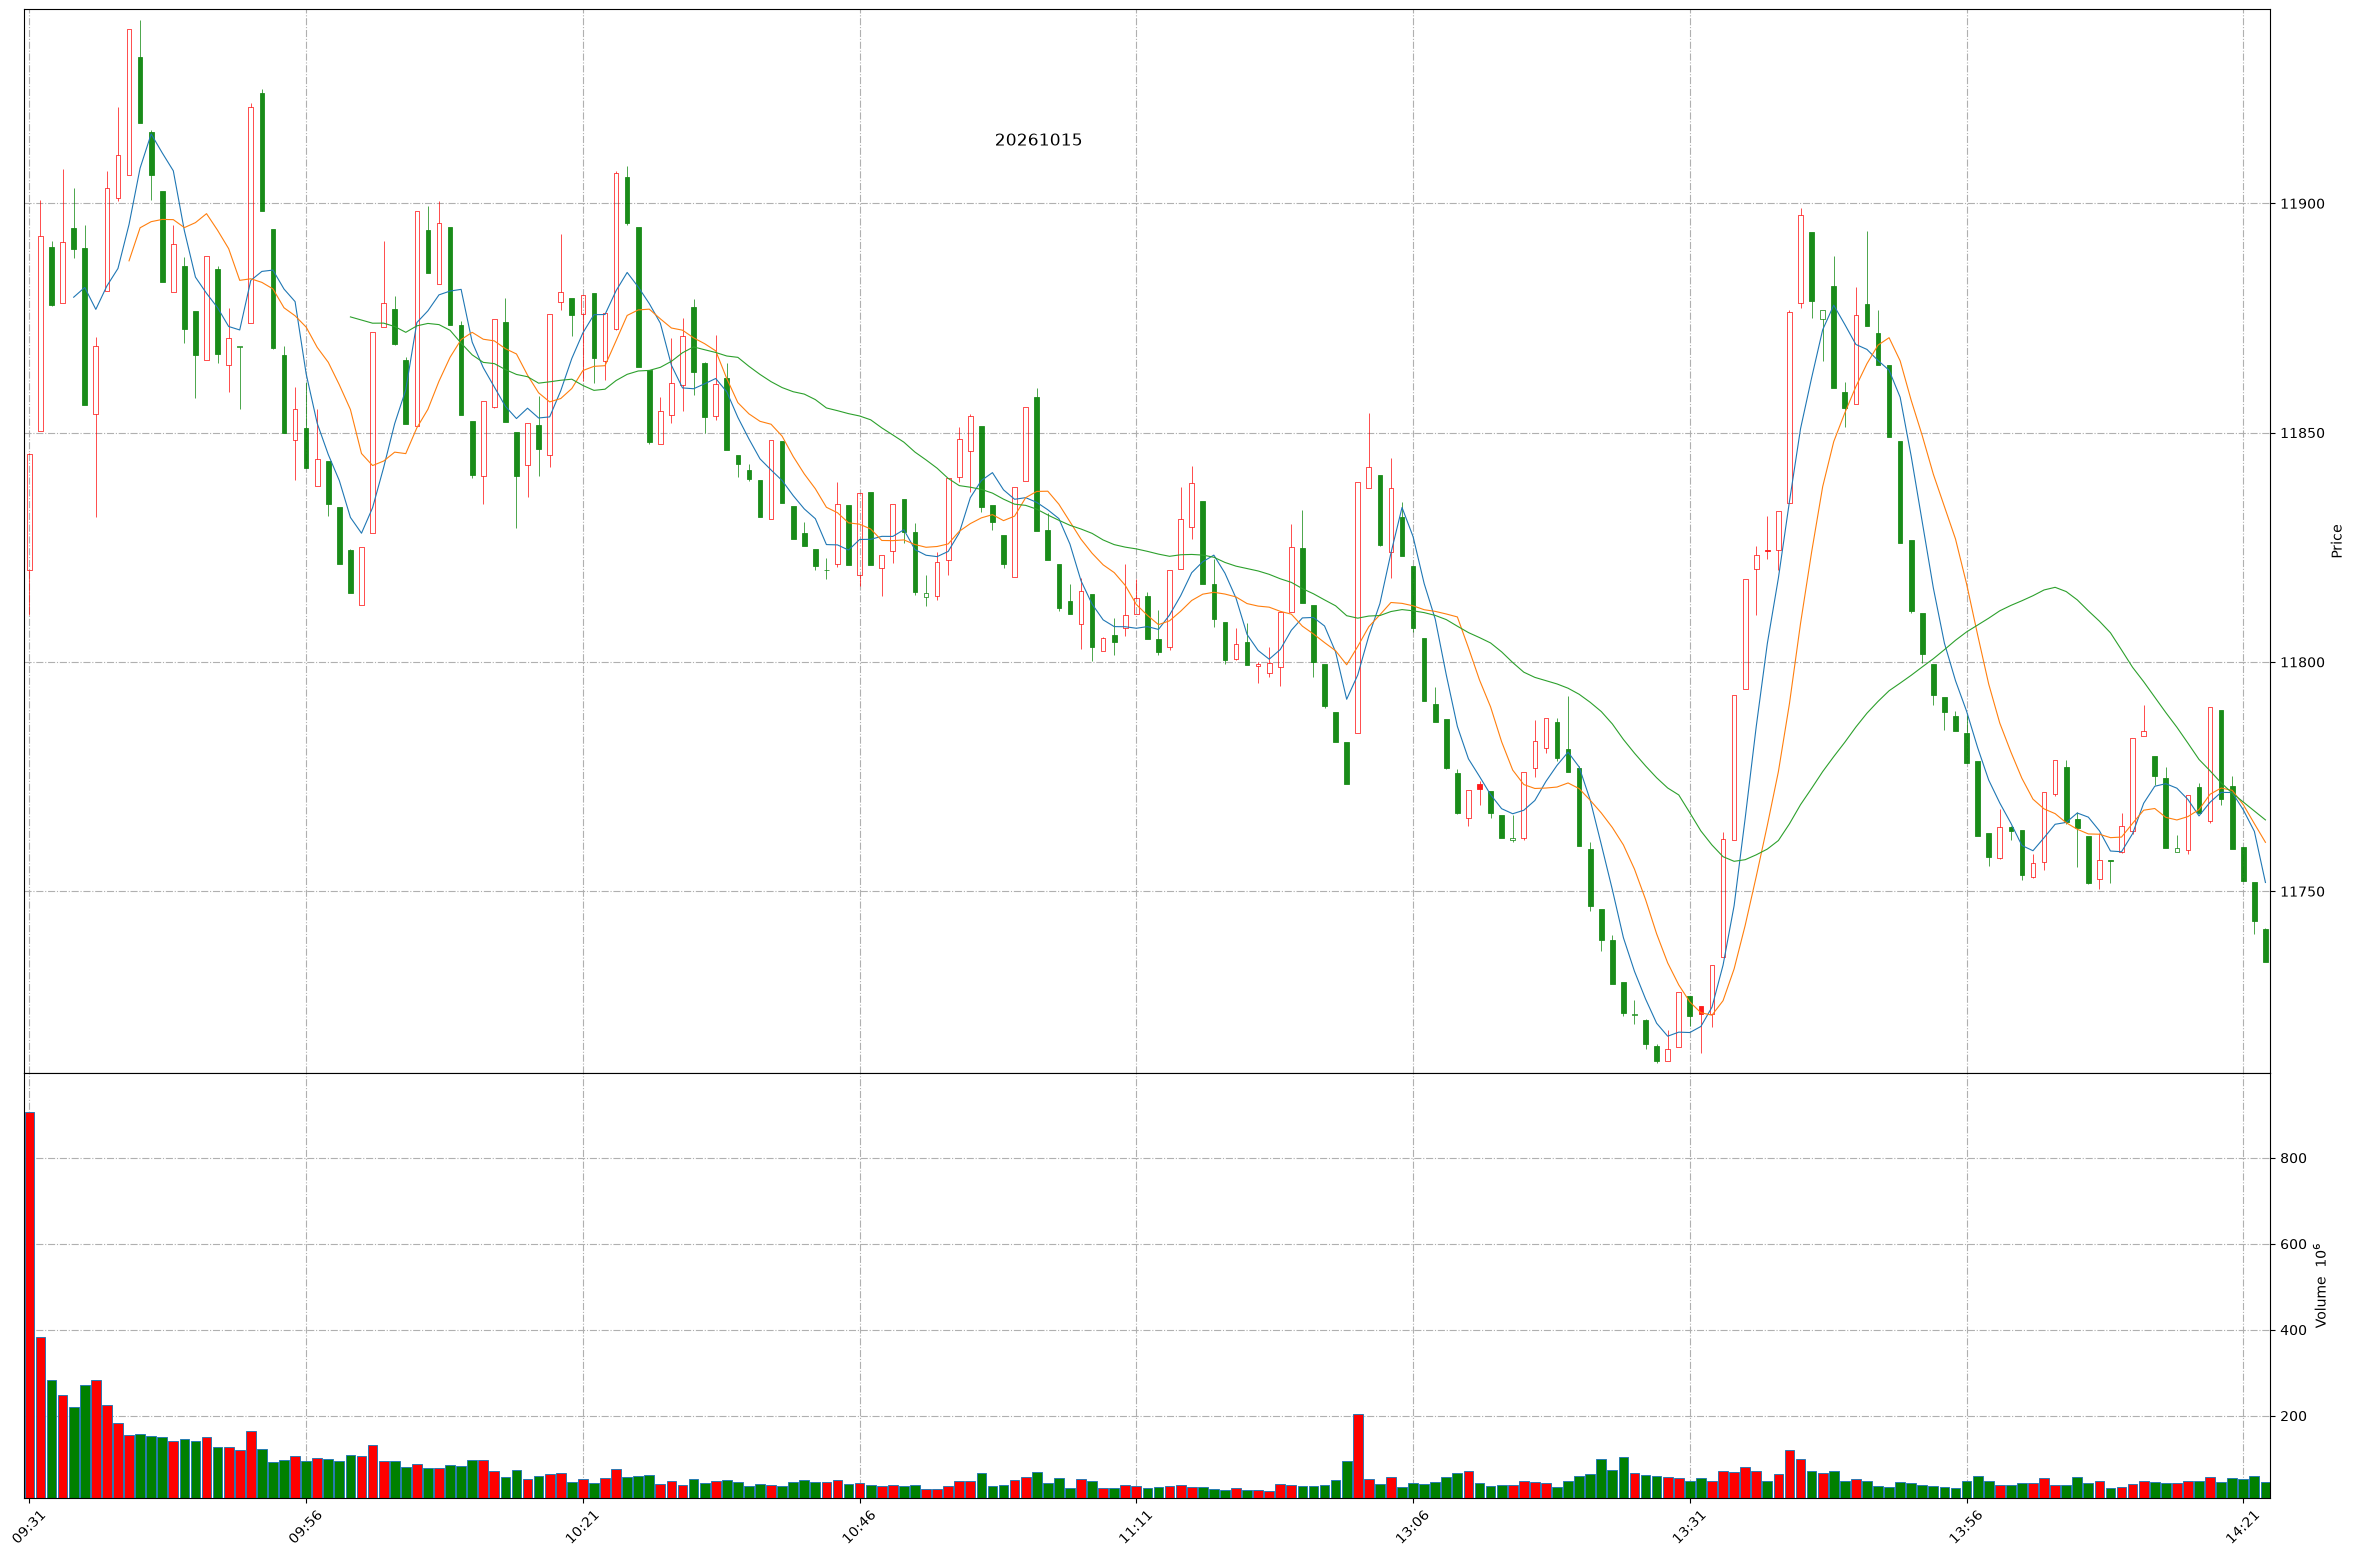
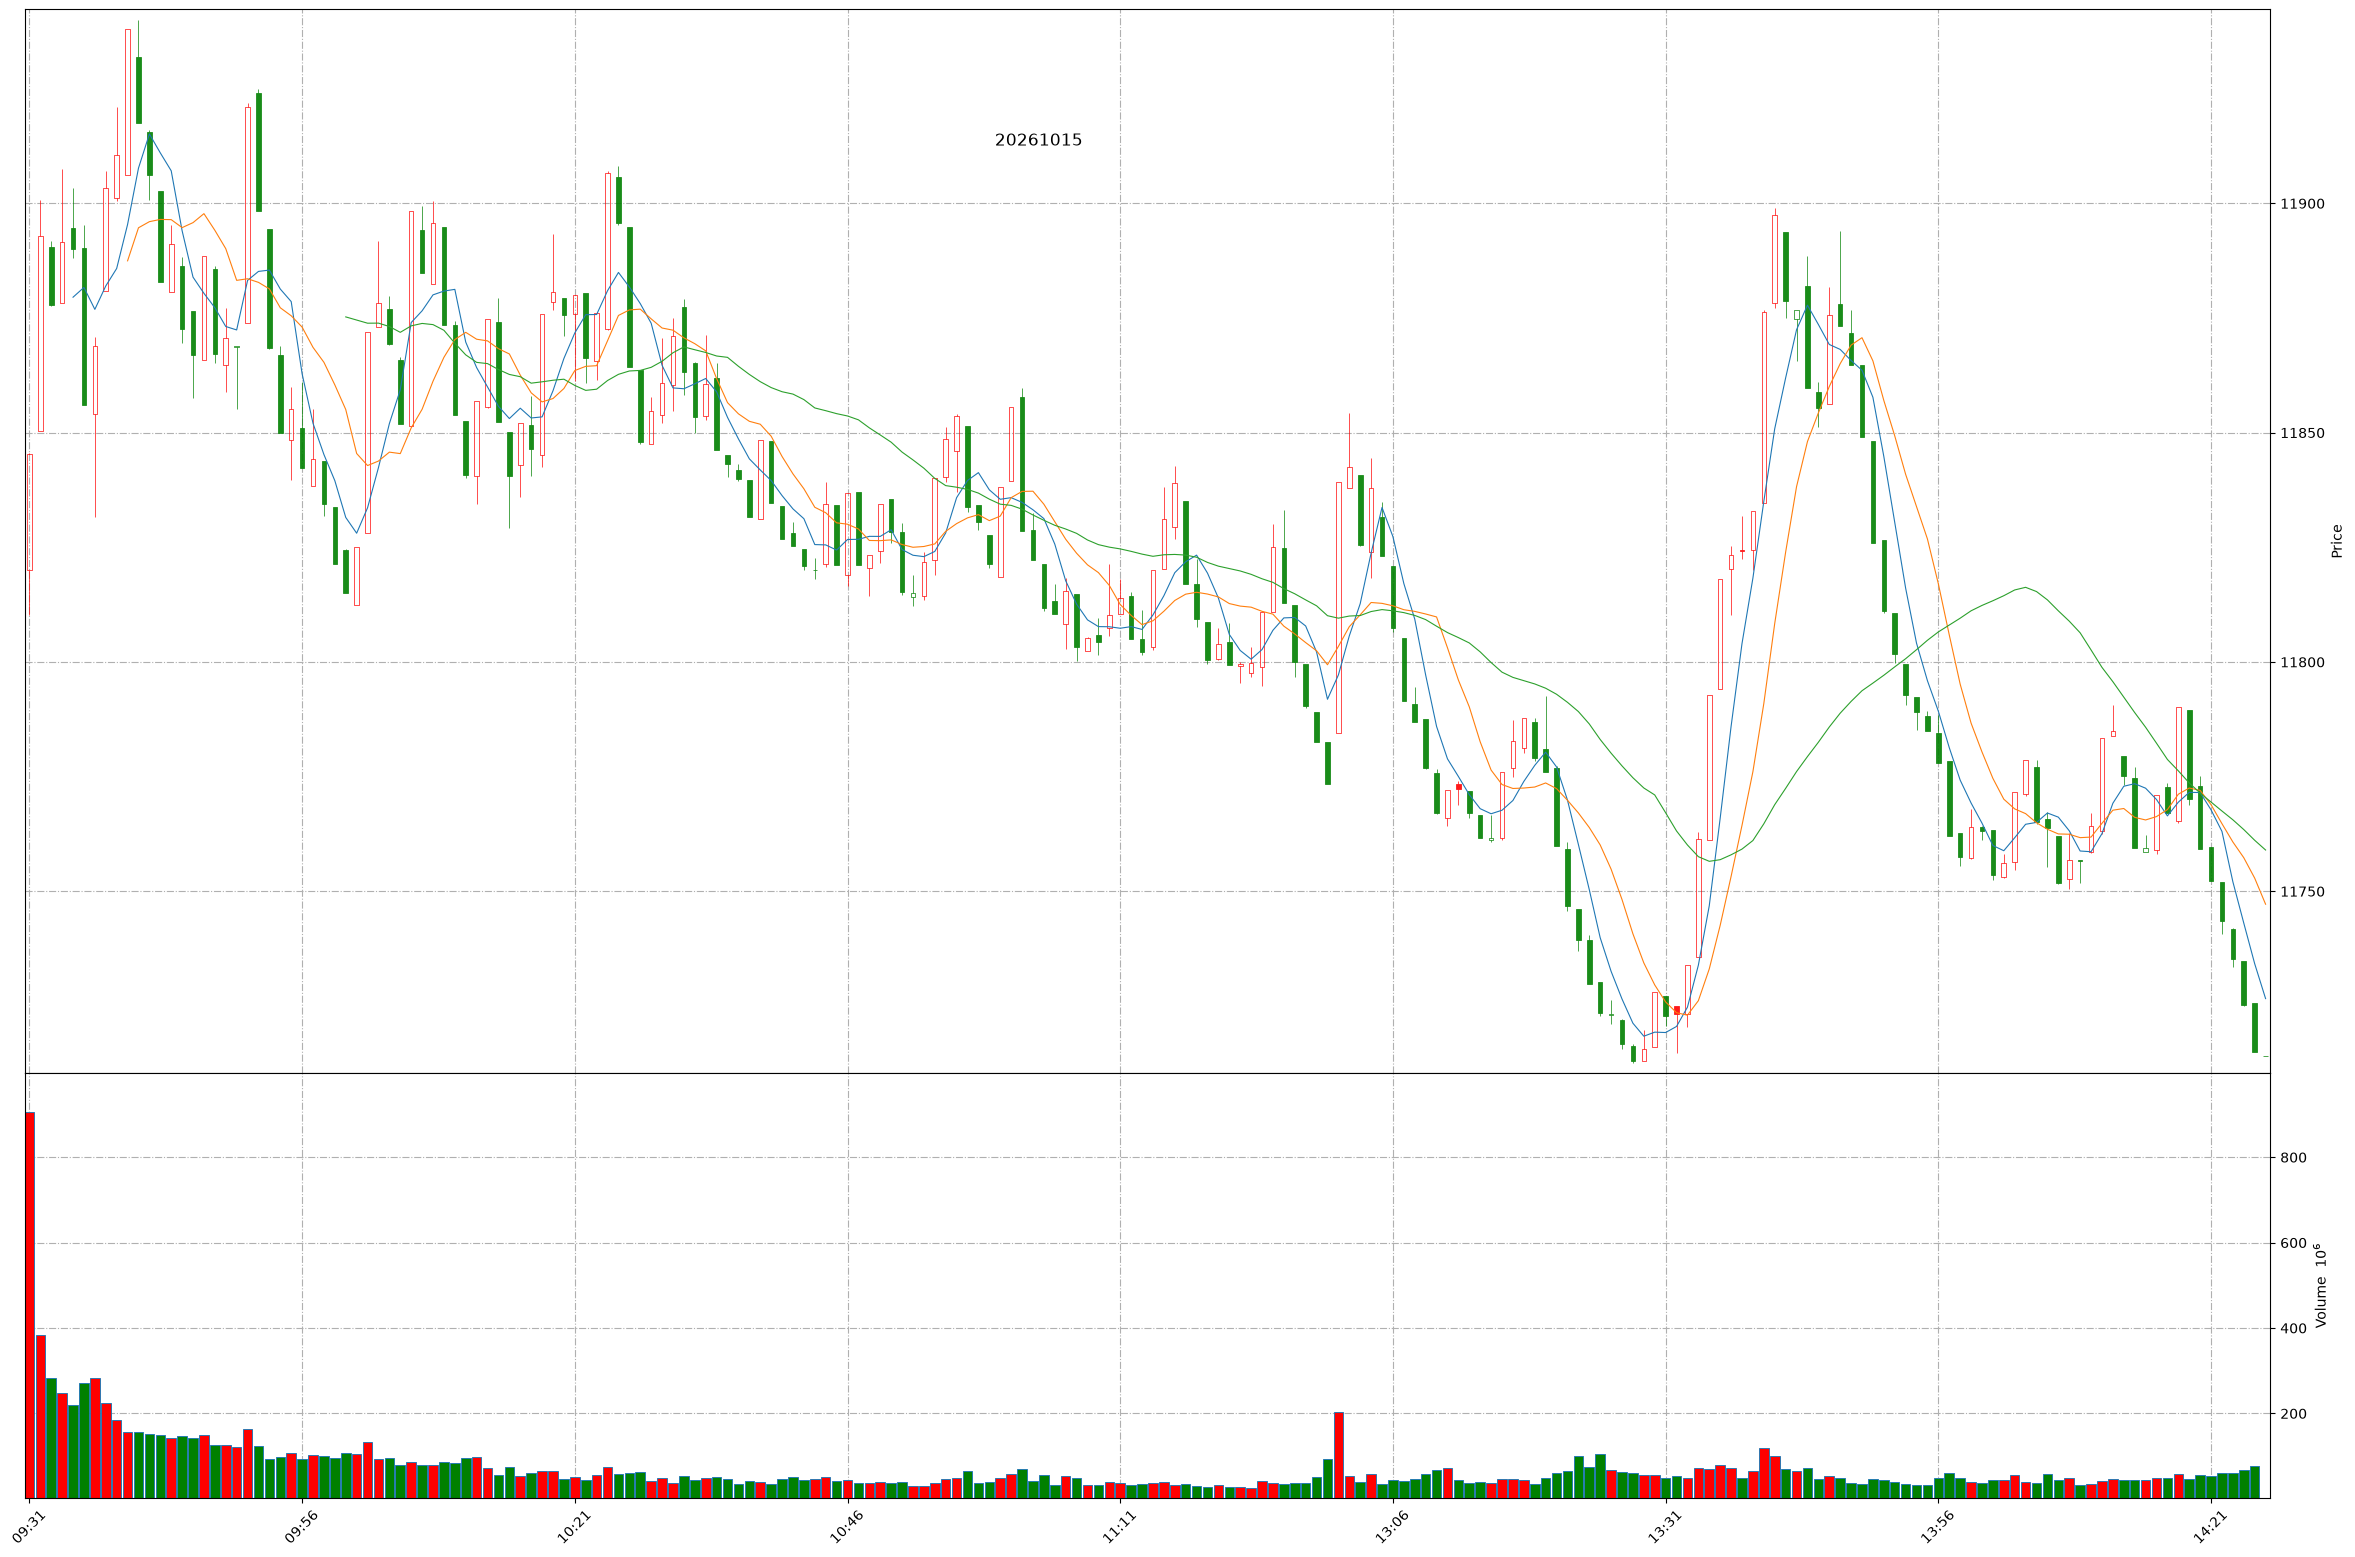
Github action update at 2026-10-15 14:25:20.

Changed region(s): [[0.031, 0.0617, 0.7439, 0.6782], [0.0, 0.894, 0.9609, 0.9865], [0.7439, 0.1541, 0.9609, 0.6474]]

diff --git a/README.md b/README.md
@@ -1,11 +1,11 @@
 
 # Daily-A-share-market-quotes 每日 A 股指数（5min 更新）- 20261015
 
-### 上证指数 20261015 14:22
+### 上证指数 20261015 14:25
 ![](./fig/2026/10/20261015-sh000001.png)
 
-### 深证成指 20261015 14:22
+### 深证成指 20261015 14:25
 ![](./fig/2026/10/20261015-sz399001.png)
 
-### 北证50 20261015 14:22
+### 北证50 20261015 14:25
 ![](./fig/2026/10/20261015-bj899050.png)
